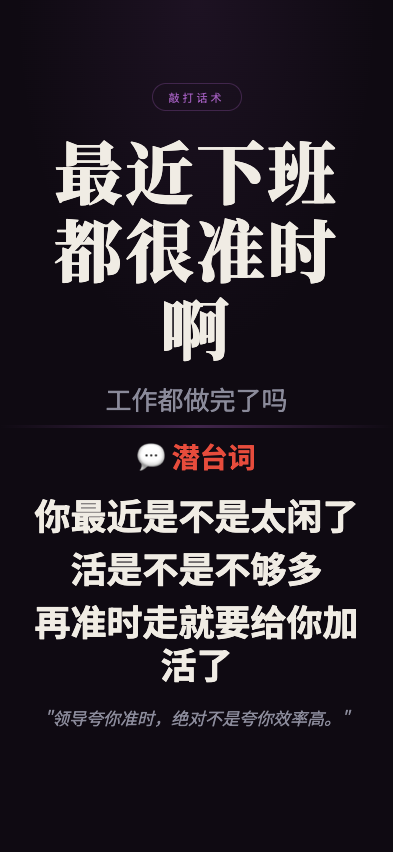
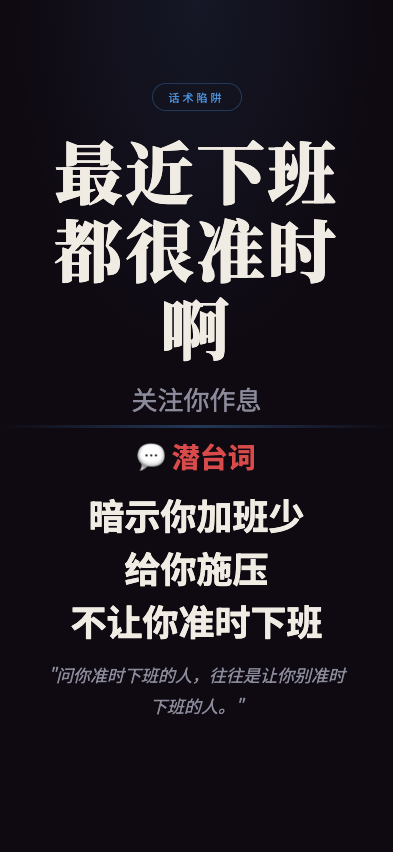
feat: 职场生存法则 screenshot - zuijinxiabandouhenzhunshia

Changed region(s): [[0.0916, 0.5798, 0.916, 0.8545], [0.2748, 0.4577, 0.7328, 0.5188], [0.4275, 0.0915, 0.5802, 0.1221]]

diff --git a/wuliao-tools/tools/biz-speak/scenes/zuijinxiabandouhenzhunshia.html b/wuliao-tools/tools/biz-speak/scenes/zuijinxiabandouhenzhunshia.html
@@ -10,8 +10,8 @@
     --bg: #0f0a12;
     --text: #f0ece4;
     --text-dim: #8a8a9a;
-    --gold: #9b59b6;
-    --red: #e74c3c;
+    --gold: #4a90d9;
+    --red: #d94a4a;
   }
   * { margin:0; padding:0; box-sizing:border-box; }
   html, body { width:100%; height:100%; overflow:hidden; }
@@ -24,11 +24,11 @@
   }
   body::before {
     content:''; position:absolute; top:0; left:0; right:0; height:45%;
-    background:radial-gradient(ellipse at 50% 0%, rgba(155,89,182,0.1) 0%, transparent 65%);
+    background:radial-gradient(ellipse at 50% 0%, rgba(74,144,217,0.1) 0%, transparent 65%);
     pointer-events:none; z-index:0;
   }
   .top { flex:1; display:flex; flex-direction:column; align-items:center; justify-content:flex-end; padding:4px 28px 8px; position:relative; z-index:1; }
-  .tag { font-size:11px; letter-spacing:3px; color:var(--gold); border:1px solid rgba(155,89,182,0.3); padding:5px 16px; border-radius:50px; margin-bottom:20px; }
+  .tag { font-size:11px; letter-spacing:3px; color:var(--gold); border:1px solid rgba(74,144,217,0.3); padding:5px 16px; border-radius:50px; margin-bottom:20px; }
   .main-title { font-family:'Noto Serif SC'; font-size:68px; font-weight:900; text-align:center; line-height:1.15; letter-spacing:3px; min-width:0; overflow-wrap:break-word; max-width:92%; }
   .sub-title { font-size:26px; color:var(--text-dim); text-align:center; margin-top:14px; }
   .divider { width:100%; height:3px; background:linear-gradient(90deg,transparent,var(--gold),transparent); opacity:0.35; flex-shrink:0; position:relative; z-index:1; }
@@ -41,19 +41,19 @@
 </head>
 <body>
   <div class="top">
-    <div class="tag">敲打话术</div>
+    <div class="tag">话术陷阱</div>
     <div class="main-title">最近下班都很准时啊</div>
-    <div class="sub-title">工作都做完了吗</div>
+    <div class="sub-title">关注你作息</div>
   </div>
   <div class="divider"></div>
   <div class="bottom">
     <div class="truth-label">💬 潜台词</div>
     <div class="truth-lines">
-      <div class="truth-line">你最近是不是太闲了</div>
-      <div class="truth-line">活是不是不够多</div>
-      <div class="truth-line">再准时走就要给你加活了</div>
+      <div class="truth-line">暗示你加班少</div>
+      <div class="truth-line">给你施压</div>
+      <div class="truth-line">不让你准时下班</div>
     </div>
-    <div class="quote">"领导夸你准时，绝对不是夸你效率高。"</div>
+    <div class="quote">"问你准时下班的人，往往是让你别准时下班的人。"</div>
   </div>
 </body>
 </html>
